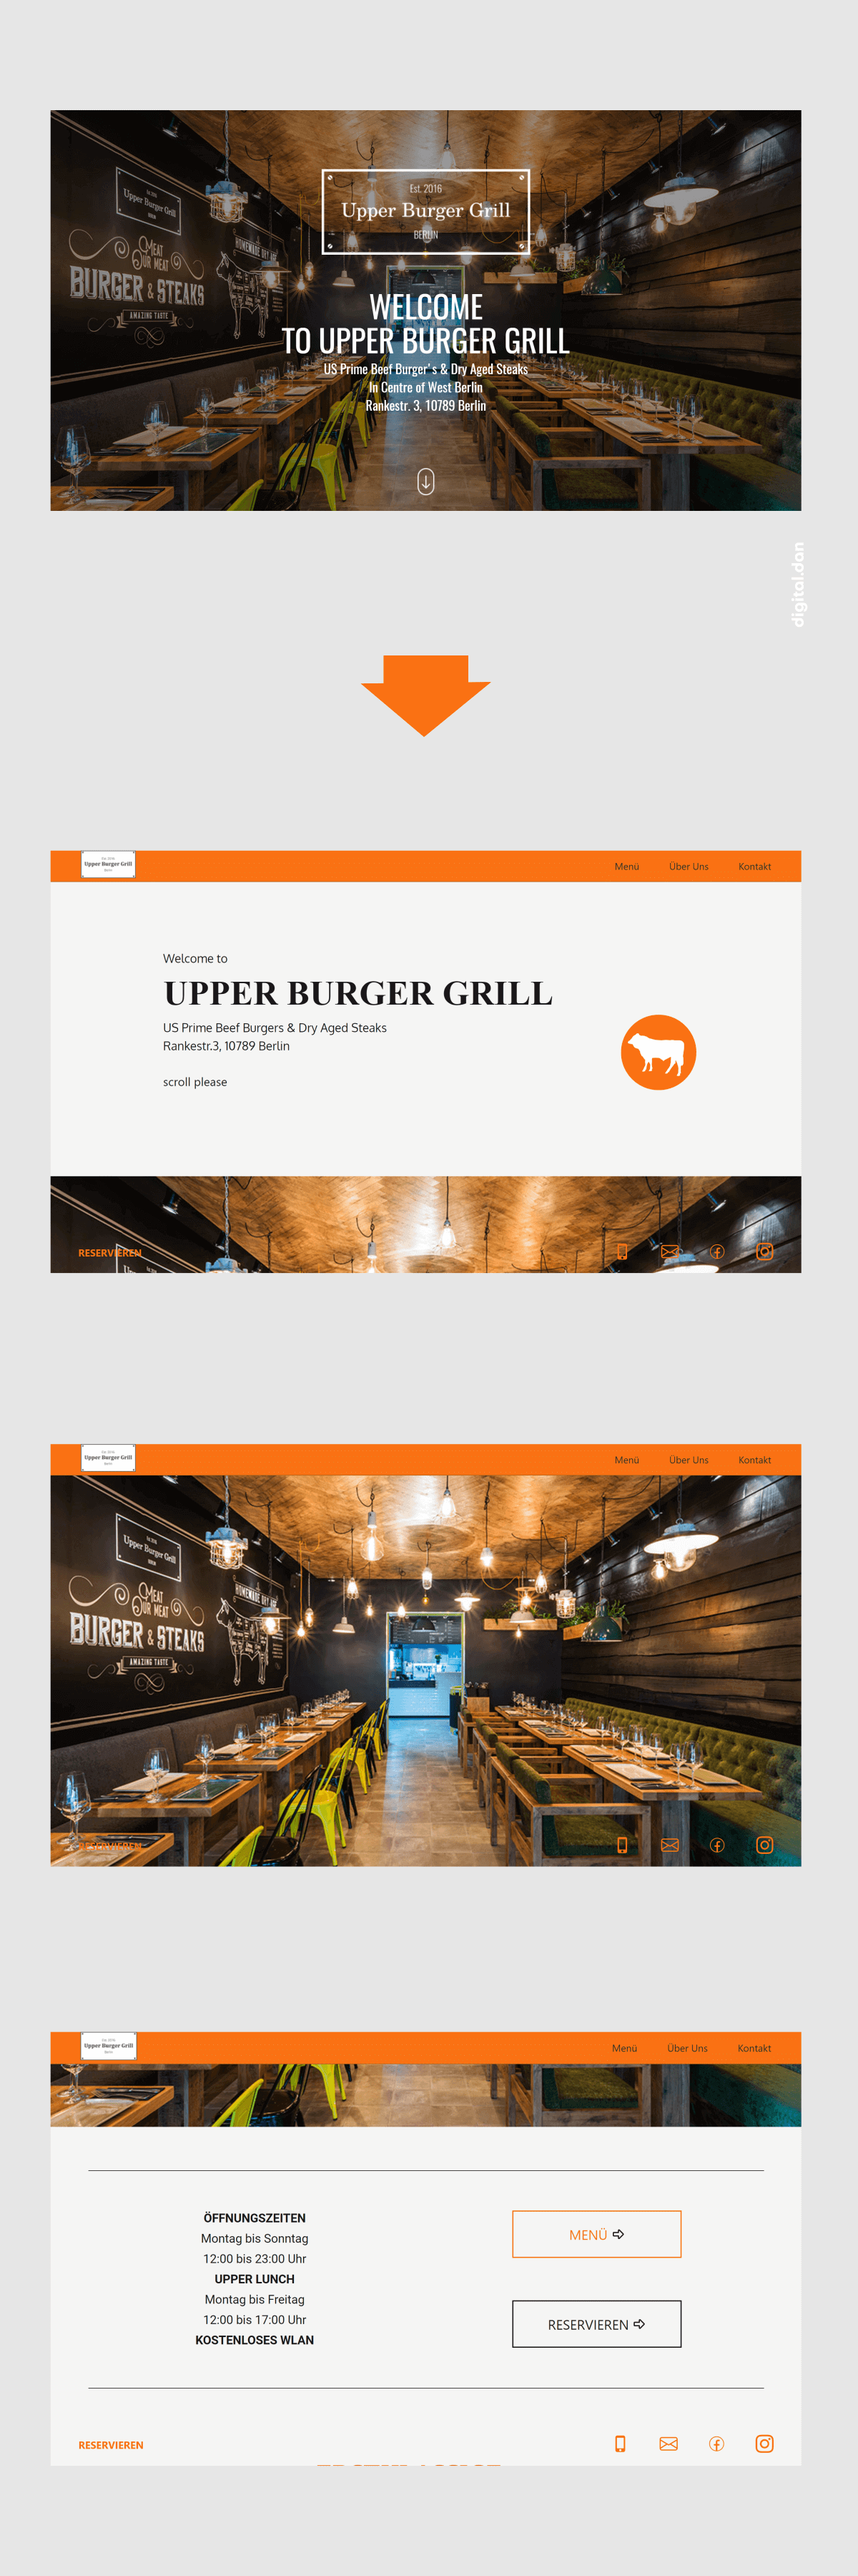
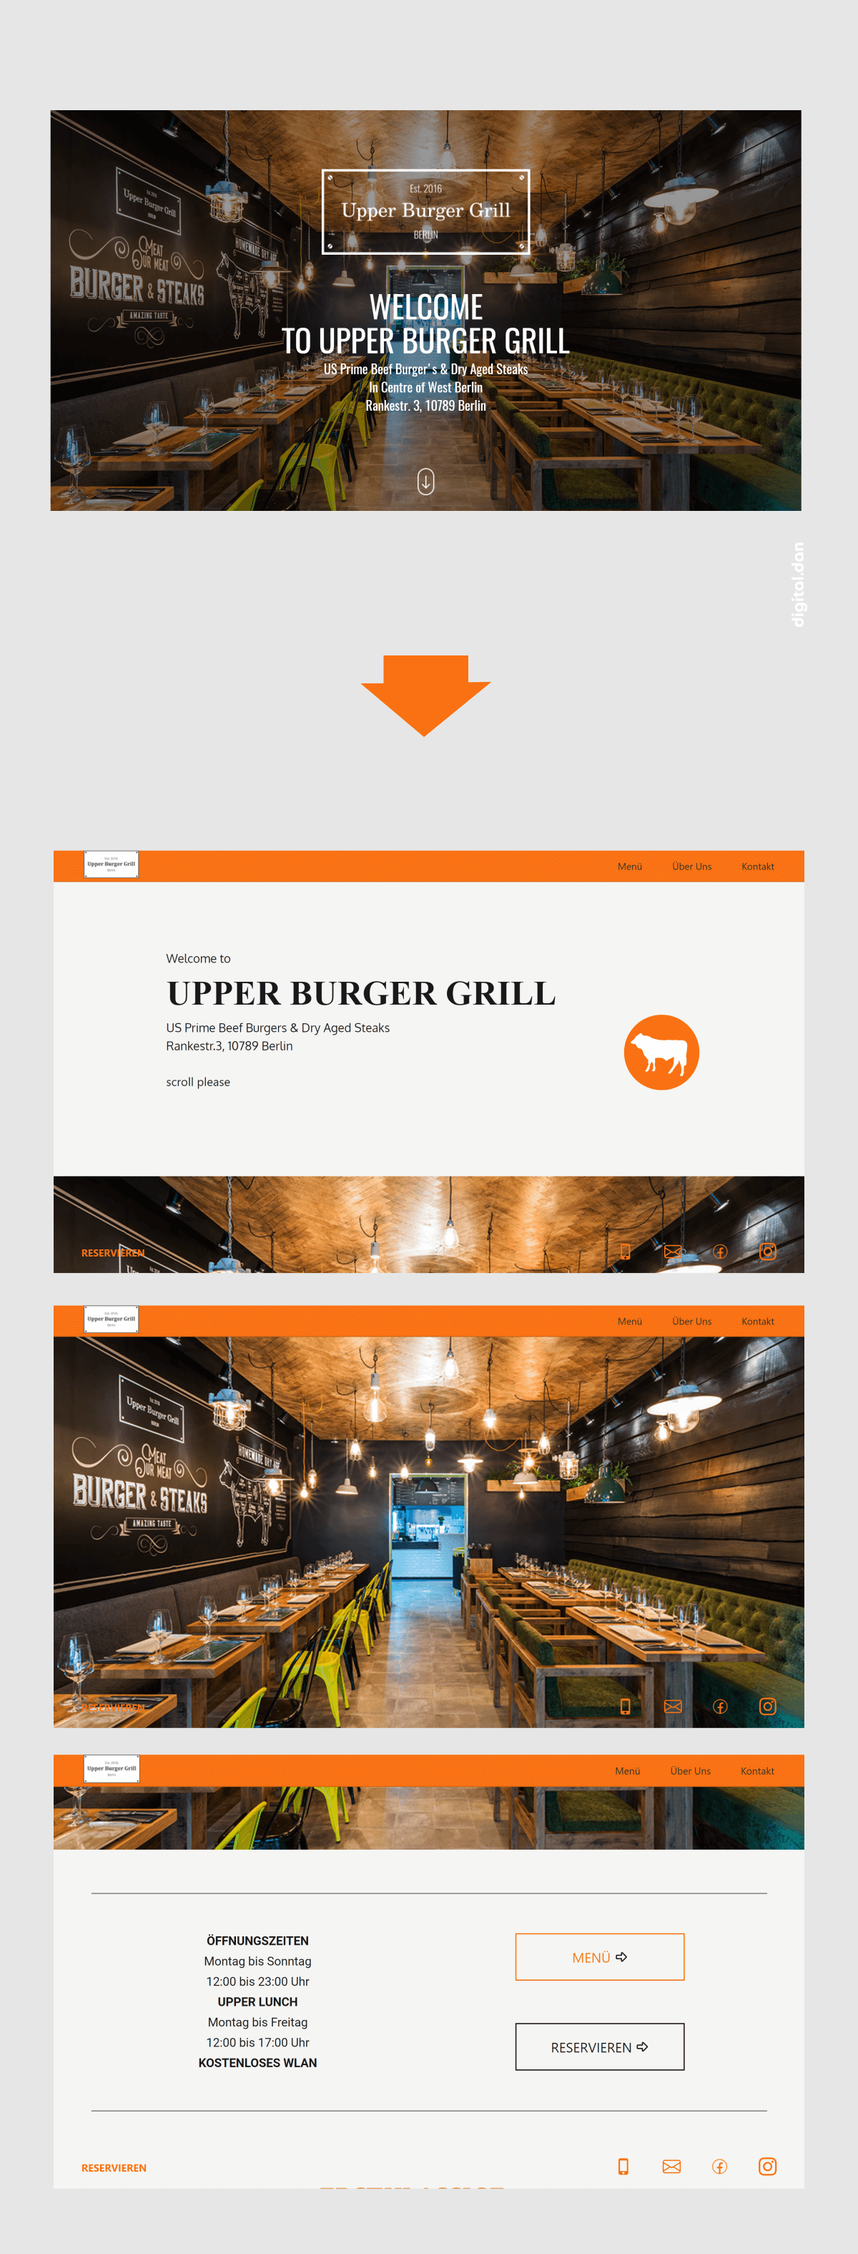
ui update 4 thur

diff --git a/components/Hero.js b/components/Hero.js
@@ -26,9 +26,9 @@ const Hero = () => {
                         <div className="flex flex-col justify-center items-center">
                             <Typeanimation /><br />
                             Design</div>
-                        <motion.div animate={wedesignAnimate2} className="font-bold herosubtext
-                        mt-[2.5rem] mx-auto text-center flex flex-col items-center">
-                            Daniel Hubschmann (Germany)
+                        <motion.div animate={wedesignAnimate2} className="font-bold paragraph
+                        mt-[2rem] mx-auto text-center flex flex-col items-center">
+                            Daniel Hubschmann (Germany)<br />
                             <div className="h-[2rem]"></div>
                             <ScrollArrow />
                         </motion.div>

diff --git a/components/Services.js b/components/Services.js
@@ -17,7 +17,7 @@ const Services = () => {
 
                             <br />
 
-                            <p>I can create timeless visuals for all industries, your client&apos;s investment will last for a long time.
+                            <p>I combine timeless visuals with great user experiences for all industries.
 
                                 <br />
 

diff --git a/components/Navbar.js b/components/Navbar.js
@@ -4,7 +4,7 @@ import Contacticons from './Contacticons';
 
 const Navbar = () => {
 
-    const [theme, setTheme] = useState('dark');
+    const [theme, setTheme] = useState('light');
     const toggleTheme = () => {
         if (theme === 'dark') {
             setTheme('light');
